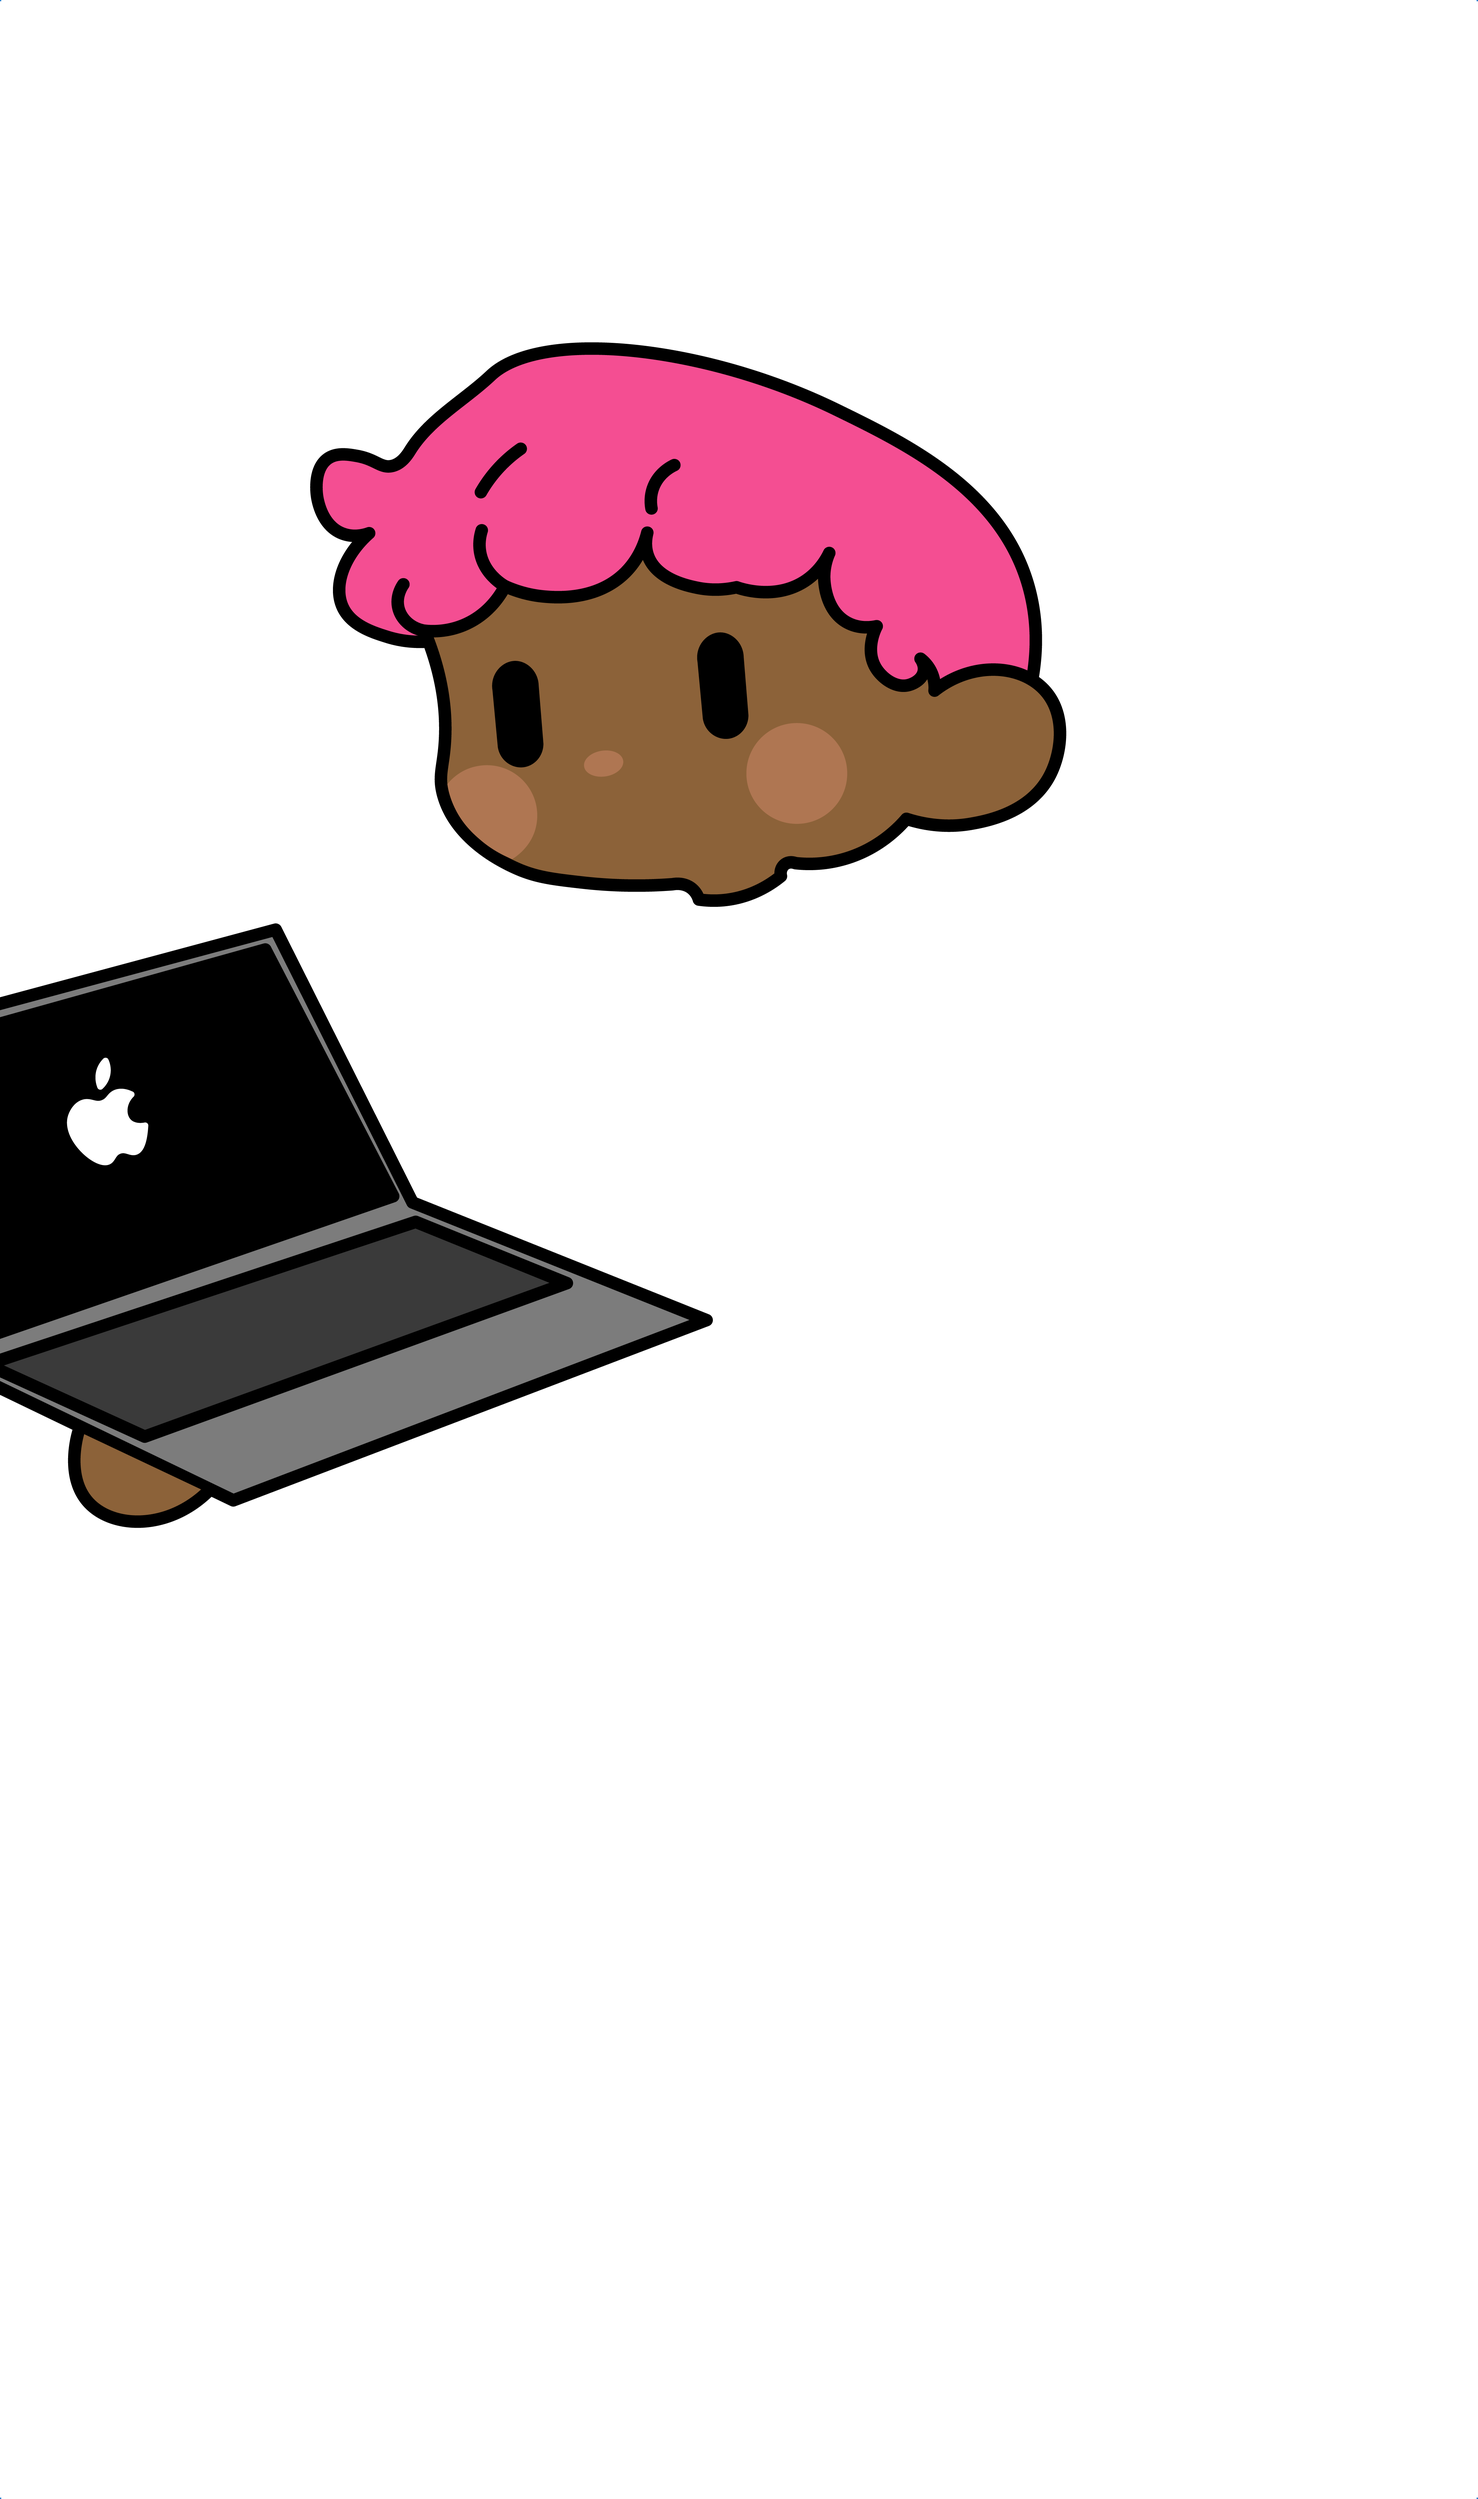
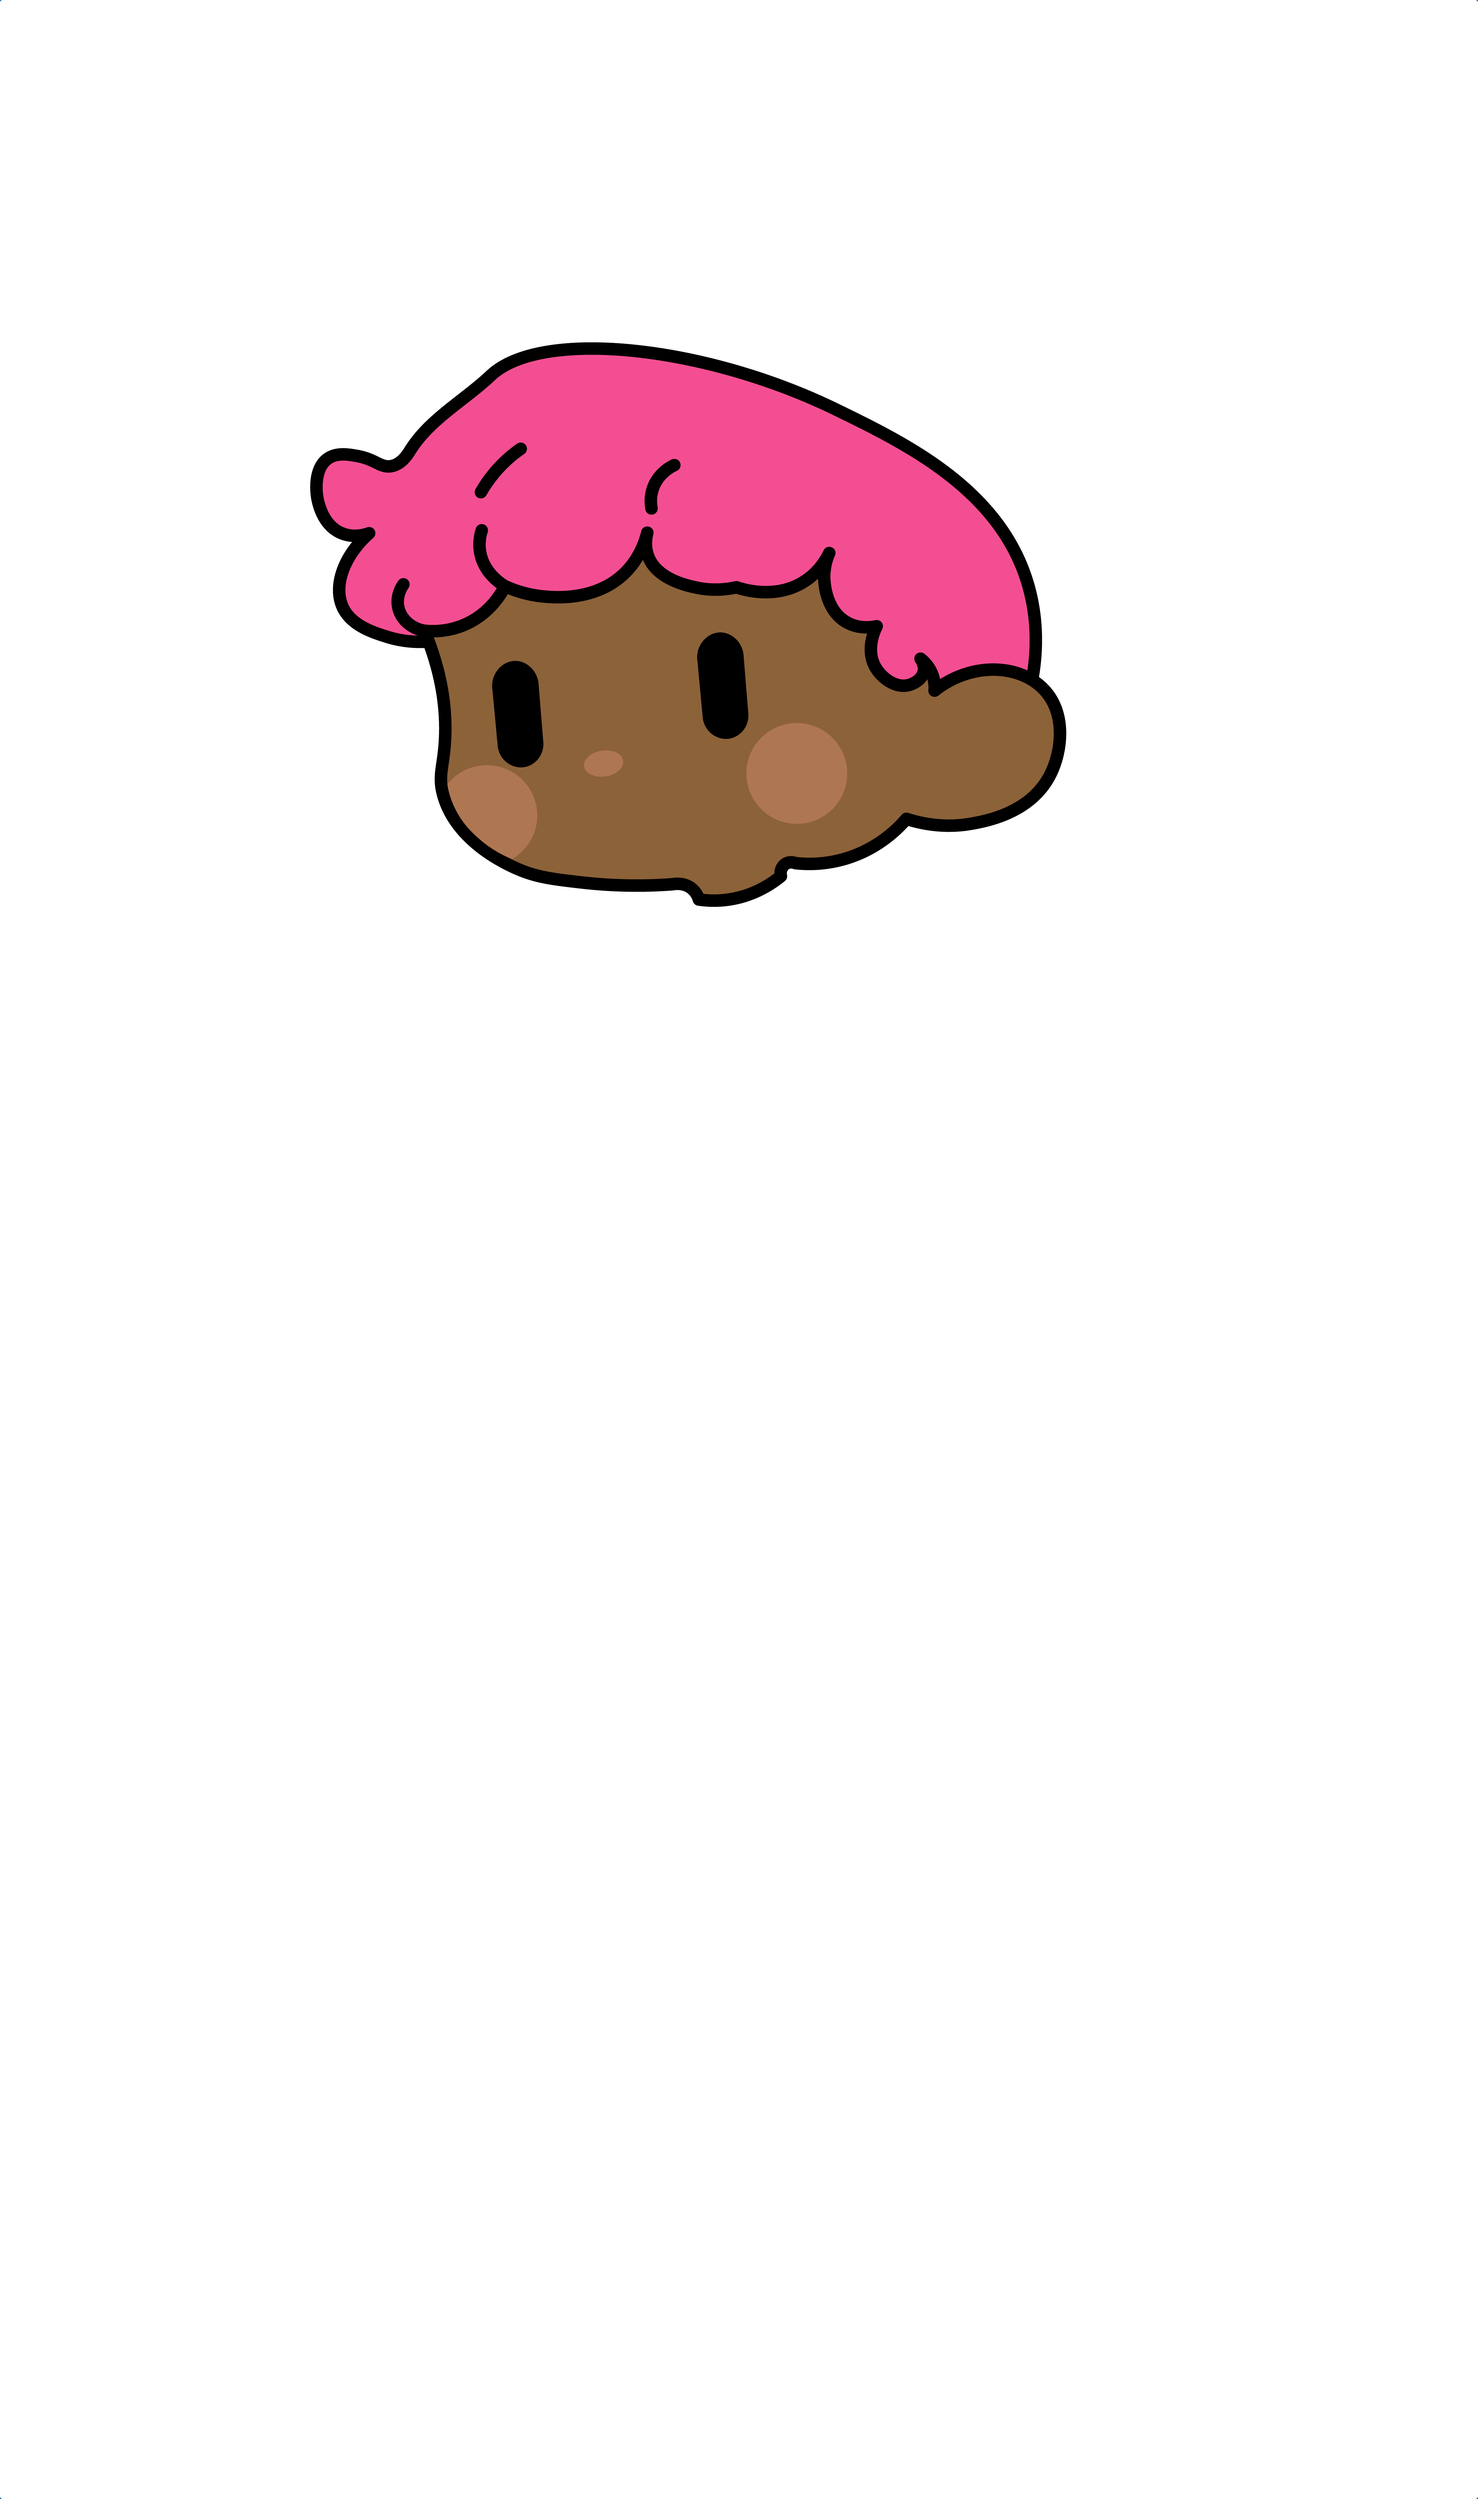
bag

Changed region(s): [[0.0, 0.3747, 0.4664, 0.6244]]

diff --git a/html/de.html b/html/de.html
@@ -14,16 +14,20 @@
 
   <!-- question00 -->
   <div id="question00" class="hidden">
+    <img class="pc zero" src="../img/illustration_01_pc.png" alt="">
     <img class="face zero" src="../img/illustration_01_face.png" alt="">
     <img class="cap zero" src="../img/illustration_01_cap.png" alt="">
     <img class="roupa zero" src="../img/illustration_01_roupa.png" alt="">
+    <img class="bag zero" src="../img/illustration_01_bag.png" alt="">
   </div>
 
   <!-- question01 -->
   <div id="question01" class="hidden">
-    <img class="face one none" src="../img/illustration_01_face.png" alt="">
-    <img class="cap one none" src="../img/illustration_01_cap.png" alt="">
-    <img class="roupa one none" src="../img/illustration_01_roupa.png" alt="">
+    <img class="pc one" src="../img/illustration_01_pc.png" alt="">
+    <img class="face one" src="../img/illustration_01_face.png" alt="">
+    <img class="cap one" src="../img/illustration_01_cap.png" alt="">
+    <img class="roupa one" src="../img/illustration_01_roupa.png" alt="">
+    <img class="bag one" src="../img/illustration_01_bag.png" alt="">
   </div>
 
   <!-- question02 -->
@@ -32,6 +36,7 @@
     <img class="big two" src="../img/illustration_02_bigode.png" alt="">
     <img class="cap two" src="../img/illustration_02_cap.png" alt="">
     <img class="roupa two" src="../img/illustration_02_roupa.png" alt="">
+    <img class="papa two" src="../img/illustration_02_papa.png" alt="">
   </div>
 
 

diff --git a/css/style-animation.css b/css/style-animation.css
@@ -82,3 +82,38 @@
     animation: roupaTwo 8s forwards;
     z-index: 10;
 }
+
+@keyframes pc{
+    0%{opacity: 100%;}
+    29%{opacity: 100%;}
+    30%{opacity: 0%;}
+    100%{opacity: 0%;}
+}
+
+#question01 .pc{
+    animation: pc 8s forwards;
+}
+
+@keyframes papa{
+    0%{opacity: 0%;}
+    59%{opacity: 0%;}
+    60%{opacity: 100%;}
+    100%{opacity: 100%;}
+}
+
+#question02 .papa{
+    animation: papa 8s forwards;
+    z-index: 11;
+}
+
+@keyframes bag{
+    0%{opacity: 100%;}
+    69%{opacity: 100%;}
+    70%{opacity: 0%;}
+    100%{opacity: 0%;}
+}
+
+#question01 .bag{
+    animation: bag 8s forwards;
+    z-index: 11;
+}
